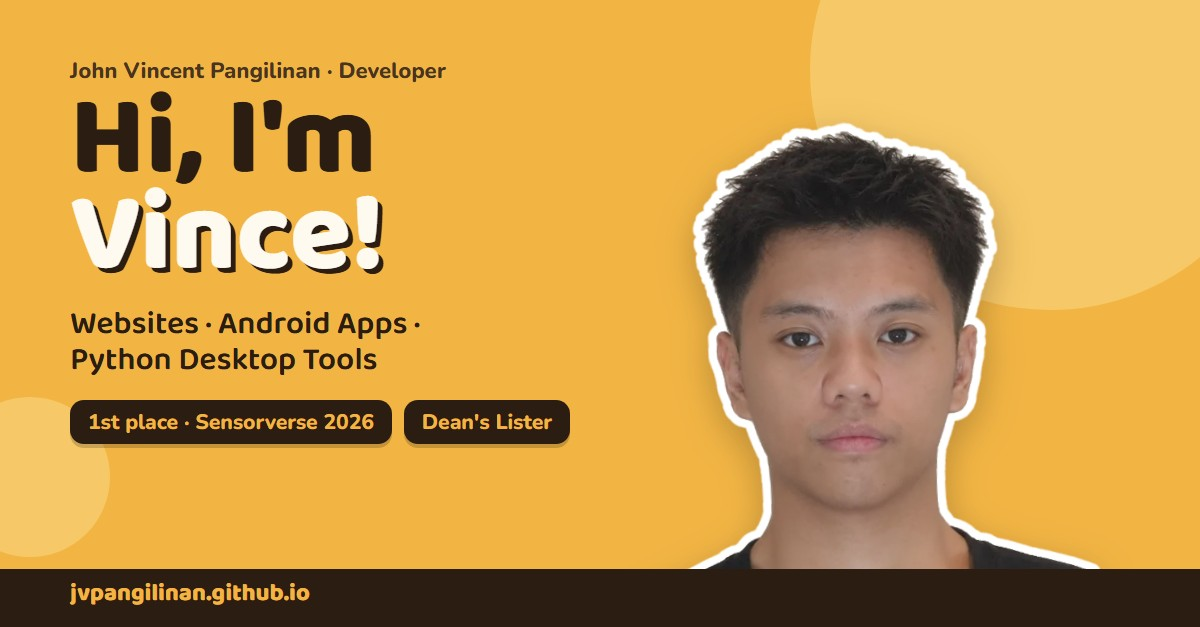
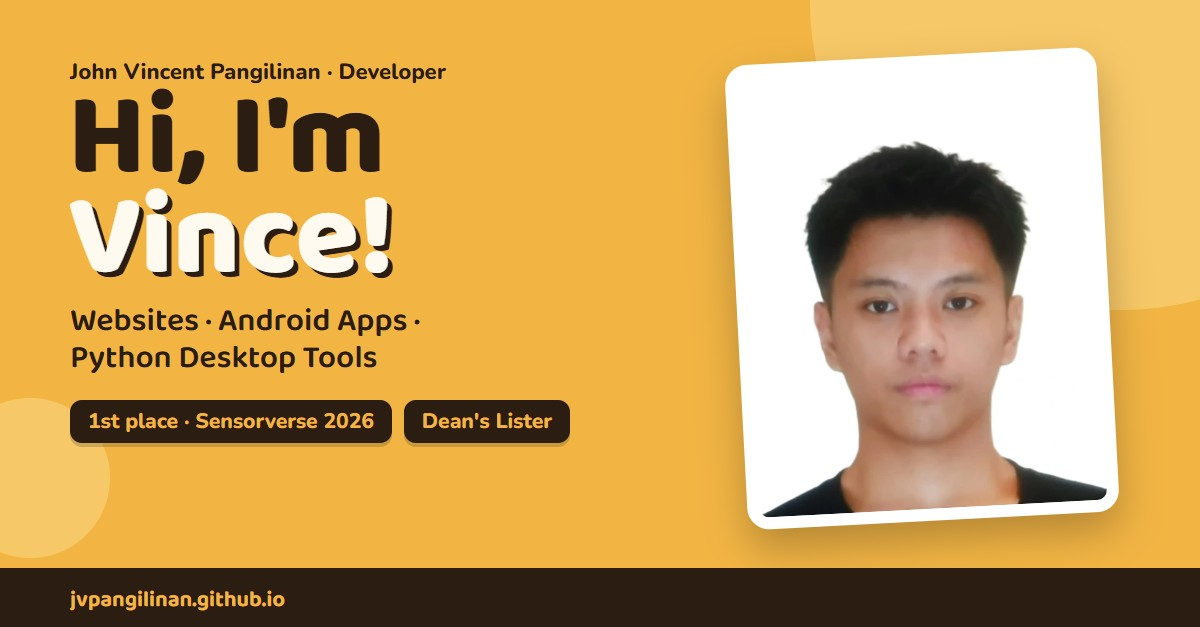
Use my own photo everywhere, only cropped
The login avatars, both hero photos, the about-me avatar and the link
preview card now use crops of a photo I made myself (img/photo.webp and
img/avatar.webp), with no other edits. The old cut-out / sticker / faded
portraits are gone.

- Casual hero: the photo sits in a white frame like a printed photo; the
  frame is its own box so no gold hairline shows between frame and photo.
- Link preview card (card-gold.jpg): same design, with the framed photo.
- CSS links bumped to v=2 so browsers drop the old cached styles.

diff --git a/casual/casual.css b/casual/casual.css
@@ -34,9 +34,11 @@ h1,h2,h3{font-family:"Baloo 2",Nunito,sans-serif}
 .socials a{width:52px;height:52px;border-radius:14px;background:var(--brown);display:grid;place-items:center;transition:.2s;box-shadow:0 4px 0 rgba(0,0,0,.18)}
 .socials a:hover{transform:translateY(-3px)}
 .socials svg{width:24px;height:24px;fill:var(--sun)}
-.sticker{position:relative;z-index:2;align-self:flex-end;margin:0 0 18px;cursor:pointer;transition:transform .25s}
-.sticker img{display:block;height:clamp(300px,60vh,560px);width:auto;transform:rotate(-3deg);transform-origin:bottom center;
-  filter:drop-shadow(0 12px 18px rgba(43,29,18,.28))}
+/* my photo as is, in a white frame like a printed photo */
+.sticker{position:relative;z-index:2;align-self:center;margin:0 0 64px;cursor:pointer;transition:transform .25s}
+/* the white frame is its own box: a border on the rotated photo itself leaves a hairline of gold between the two */
+.frame{display:block;padding:10px;background:#fff;border-radius:20px;transform:rotate(-3deg);box-shadow:0 18px 36px rgba(43,29,18,.28)}
+.frame img{display:block;height:clamp(260px,52vh,460px);width:auto;aspect-ratio:4/5;object-fit:cover;border-radius:12px}
 .sticker:hover{transform:translateY(-6px)}
 .bubble{position:absolute;left:-30px;top:12%;background:var(--card);color:var(--brown);font-family:"Baloo 2",sans-serif;font-weight:800;
   padding:.5rem 1rem;border-radius:16px;box-shadow:0 6px 0 rgba(43,29,18,.15);opacity:0;transform:scale(.6);transition:.2s;pointer-events:none;white-space:nowrap}
@@ -173,7 +175,7 @@ h1,h2,h3{font-family:"Baloo 2",Nunito,sans-serif}
 .contact-list span{width:80px;color:var(--amber);font-weight:800}
 
 /* ---------- easter egg ---------- */
-.sticker.irl img{animation:wobble .5s ease}
+.sticker.irl .frame{animation:wobble .5s ease}
 .sticker.irl .bubble{opacity:1;transform:scale(1)}
 @keyframes wobble{0%{transform:rotate(-3deg)}25%{transform:rotate(5deg) scale(1.04)}50%{transform:rotate(-6deg)}75%{transform:rotate(1deg)}100%{transform:rotate(-3deg)}}
 
@@ -186,8 +188,8 @@ h1,h2,h3{font-family:"Baloo 2",Nunito,sans-serif}
   .hero{flex-direction:column;align-items:flex-start;min-height:auto;padding-top:calc(6vh + 40px)}
   .topbar{left:6vw;right:6vw;justify-content:flex-end}
   .hero-text{padding-bottom:1rem}
-  .sticker{align-self:center;margin:0 0 14px}
-  .sticker img{height:min(46vh,360px)}
+  .sticker{align-self:center;margin:0 0 92px}
+  .frame img{height:min(44vh,320px)}
   .bubble{left:0}
   .icons{padding-top:2rem}
   .win,.win.wide{left:0;top:0;width:100vw;max-height:100vh;max-height:100dvh;height:100vh;height:100dvh;border-radius:0;transform:none}

diff --git a/login.css b/login.css
@@ -33,8 +33,8 @@ body::before{content:"";position:fixed;inset:0;pointer-events:none;background:
 .profile:focus-visible{box-shadow:0 0 0 3px var(--gold),0 26px 60px rgba(0,0,0,.38)}
 .ava{width:136px;height:136px;border-radius:50%;overflow:hidden;margin-bottom:1.1rem;flex:none;
   box-shadow:0 0 0 4px rgba(251,242,225,.92),0 16px 34px rgba(0,0,0,.4);transition:transform .28s cubic-bezier(.2,.8,.2,1)}
-.pro .ava{background:#efe9df}
-.casual .ava{background:var(--gold);box-shadow:0 0 0 4px var(--gold),0 16px 34px rgba(0,0,0,.4)}
+.ava{background:#fff}
+.casual .ava{box-shadow:0 0 0 4px var(--gold),0 16px 34px rgba(0,0,0,.4)}
 .ava img{width:100%;height:100%;object-fit:cover;display:block}
 .profile:hover .ava,.profile:focus-visible .ava{transform:scale(1.05)}
 .info{flex:1;display:flex;flex-direction:column;align-items:center}
@@ -62,8 +62,8 @@ kbd{font:inherit;font-weight:700;color:var(--ink);padding:.05rem .42rem;border:1
   background:#faf8f4;color:#1d1812;animation:fade .25s ease}
 .welcome.casual{background:var(--gold);color:var(--brown)}
 .welcome[hidden]{display:none}
-.welcome img{width:120px;height:120px;border-radius:50%;object-fit:cover;background:#efe9df;box-shadow:0 0 0 4px #fff,0 14px 30px rgba(0,0,0,.18);animation:rise .4s cubic-bezier(.2,.8,.2,1)}
-.welcome.casual img{background:var(--gold);box-shadow:0 0 0 4px var(--brown),0 14px 30px rgba(0,0,0,.18)}
+.welcome img{width:120px;height:120px;border-radius:50%;object-fit:cover;background:#fff;box-shadow:0 0 0 4px #fff,0 14px 30px rgba(0,0,0,.18);animation:rise .4s cubic-bezier(.2,.8,.2,1)}
+.welcome.casual img{box-shadow:0 0 0 4px var(--brown),0 14px 30px rgba(0,0,0,.18)}
 .welcome p{font-size:1.4rem;font-weight:700;letter-spacing:-.01em}
 .welcome.casual p{font-family:"Baloo 2",Inter,sans-serif;font-weight:800;font-size:1.7rem}
 .dots i{display:inline-block;width:6px;height:6px;margin-left:5px;border-radius:50%;background:currentColor;animation:blink 1s infinite}

diff --git a/pro/pro.css b/pro/pro.css
@@ -61,11 +61,9 @@ button{font:inherit}
 .socials a{width:40px;height:40px;border-radius:11px;display:grid;place-items:center;color:var(--muted);border:1px solid var(--line);transition:color .15s,border-color .15s}
 .socials a:hover{color:var(--ink);border-color:var(--muted)}
 .socials svg{width:18px;height:18px;fill:currentColor}
-/* the photo fades to white at the bottom, so it sits on a light card in both themes */
-.portrait{position:relative;justify-self:end;width:min(380px,100%);aspect-ratio:4/5;border-radius:28px;overflow:hidden;
-  background:linear-gradient(165deg,#fdf3dc 0%,#f6efe4 55%,#fff 100%);box-shadow:var(--shadow)}
-.portrait::before{content:"";position:absolute;width:72%;aspect-ratio:1;border-radius:50%;background:var(--gold);opacity:.5;right:-20%;top:-16%}
-.portrait img{position:relative;width:100%;height:100%;object-fit:cover;object-position:50% 18%}
+/* my photo as is: it has a white background, so it sits on a white card in both themes */
+.portrait{justify-self:end;width:min(380px,100%);aspect-ratio:4/5;border-radius:28px;overflow:hidden;background:#fff;box-shadow:var(--shadow)}
+.portrait img{width:100%;height:100%;object-fit:cover}
 
 .proof{display:grid;grid-template-columns:repeat(4,1fr);gap:1px;background:var(--line);border:1px solid var(--line);border-radius:var(--radius);
   overflow:hidden;margin-top:clamp(44px,7vw,80px)}
@@ -206,8 +204,7 @@ button{font:inherit}
   .links{display:none}
   .hero{grid-template-columns:1fr}
   .portrait{order:-1;justify-self:start;width:132px;aspect-ratio:1;border-radius:50%;box-shadow:0 0 0 4px var(--surface),var(--shadow)}
-  .portrait::before{display:none}
-  .portrait img{object-position:50% 12%}
+  .portrait img{object-position:50% 55%}
   .proof{grid-template-columns:repeat(2,1fr)}
   .about,.two,.contact-grid,.case.feature{grid-template-columns:1fr}
   .case.feature .case-body{padding:.2rem .5rem .5rem}

diff --git a/casual/index.html b/casual/index.html
@@ -21,7 +21,7 @@
 <link rel="preconnect" href="https://fonts.googleapis.com">
 <link rel="preconnect" href="https://fonts.gstatic.com" crossorigin>
 <link href="https://fonts.googleapis.com/css2?family=Baloo+2:wght@600;800&family=Nunito:wght@400;600;700;800&display=swap" rel="stylesheet">
-<link rel="stylesheet" href="casual.css?v=1">
+<link rel="stylesheet" href="casual.css?v=2">
 </head>
 <body>
 
@@ -52,7 +52,7 @@
     </div>
   </div>
   <figure class="sticker" title="psst… double-click me">
-    <img src="../img/sticker.webp" alt="Portrait of Vince" width="888" height="900">
+    <span class="frame"><img src="../img/photo.webp" alt="Photo of Vince" width="511" height="639"></span>
     <span class="bubble" aria-hidden="true">me after finals week</span>
   </figure>
   <div class="band"></div>
@@ -244,7 +244,7 @@
   <div class="win-bar"><span id="about-t">about-me.txt</span><button class="x" aria-label="Close">[x]</button></div>
   <div class="win-body">
     <div class="about-top">
-      <img src="../img/avatar-casual.webp" alt="" class="avatar" width="320" height="320">
+      <img src="../img/avatar.webp" alt="" class="avatar" width="320" height="320">
       <div>
         <h2>Hey, I'm Vince.</h2>
         <p>A third-year IT student from Bacoor, Cavite. When I'm not doing school stuff, I'm playing VALORANT, modding Cyberpunk 2077 and Red Dead Redemption 2, cutting videos for my channel, or building something nobody asked for, like my own media player or a game whose only job is to make graphics cards sweat.</p>

diff --git a/index.html b/index.html
@@ -31,7 +31,7 @@
 <link href="https://fonts.googleapis.com/css2?family=Baloo+2:wght@800&family=Inter:wght@400;500;600;700;800&display=swap" rel="stylesheet">
 <link rel="prefetch" href="pro/">
 <link rel="prefetch" href="casual/">
-<link rel="stylesheet" href="login.css?v=1">
+<link rel="stylesheet" href="login.css?v=2">
 </head>
 <body>
 
@@ -48,7 +48,7 @@
 
     <div class="profiles">
       <a class="profile pro" href="pro/" data-mode="pro">
-        <span class="ava"><img src="img/avatar-pro.webp" alt="" width="160" height="160"></span>
+        <span class="ava"><img src="img/avatar.webp" alt="" width="160" height="160"></span>
         <span class="info">
           <span class="name">John Vincent Pangilinan</span>
           <span class="tag">Professional</span>
@@ -58,7 +58,7 @@
         </span>
       </a>
       <a class="profile casual" href="casual/" data-mode="casual">
-        <span class="ava"><img src="img/avatar-casual.webp" alt="" width="160" height="160"></span>
+        <span class="ava"><img src="img/avatar.webp" alt="" width="160" height="160"></span>
         <span class="info">
           <span class="name">Vince</span>
           <span class="tag">Casual</span>
@@ -77,7 +77,7 @@
 </main>
 
 <div class="welcome" id="welcome" hidden>
-  <img id="welcome-ava" src="img/avatar-pro.webp" alt="">
+  <img id="welcome-ava" src="img/avatar.webp" alt="">
   <p>Welcome<span class="dots" aria-hidden="true"><i></i><i></i><i></i></span></p>
 </div>
 

diff --git a/pro/index.html b/pro/index.html
@@ -22,7 +22,7 @@
 <link rel="preconnect" href="https://fonts.googleapis.com">
 <link rel="preconnect" href="https://fonts.gstatic.com" crossorigin>
 <link href="https://fonts.googleapis.com/css2?family=Inter:wght@400;500;600;700;800&display=swap" rel="stylesheet">
-<link rel="stylesheet" href="pro.css?v=1">
+<link rel="stylesheet" href="pro.css?v=2">
 <script type="application/ld+json">
 {
   "@context": "https://schema.org",
@@ -30,7 +30,7 @@
   "name": "John Vincent Pangilinan",
   "alternateName": "Vince",
   "url": "https://jvpangilinan.github.io/pro/",
-  "image": "https://jvpangilinan.github.io/img/me.webp",
+  "image": "https://jvpangilinan.github.io/img/photo.webp",
   "jobTitle": "IT Student and Developer",
   "email": "mailto:pangilinanjohnvincent16@gmail.com",
   "address": { "@type": "PostalAddress", "addressLocality": "Bacoor", "addressRegion": "Cavite", "addressCountry": "PH" },
@@ -89,7 +89,7 @@
       </p>
     </div>
     <figure class="portrait">
-      <img src="../img/me.webp" alt="John Vincent Pangilinan" width="718" height="800">
+      <img src="../img/photo.webp" alt="John Vincent Pangilinan" width="511" height="639">
     </figure>
   </section>
 

diff --git a/README.md b/README.md
@@ -17,6 +17,6 @@ Plain HTML, CSS and JavaScript with no build step, hosted on GitHub Pages.
 | `pro/` | The professional side |
 | `casual/` | The casual side (`pong.js` is the game) |
 | `404.html` | Page not found |
-| `img/` | Images. The `.webp` files are smaller copies of the PNG photos, and they're what the pages load |
+| `img/` | Images. `photo.webp` and `avatar.webp` are crops of my own photo (no other edits) |
 
 To run it locally: `py -3.12 -m http.server 8000` in this folder, then open http://localhost:8000.
